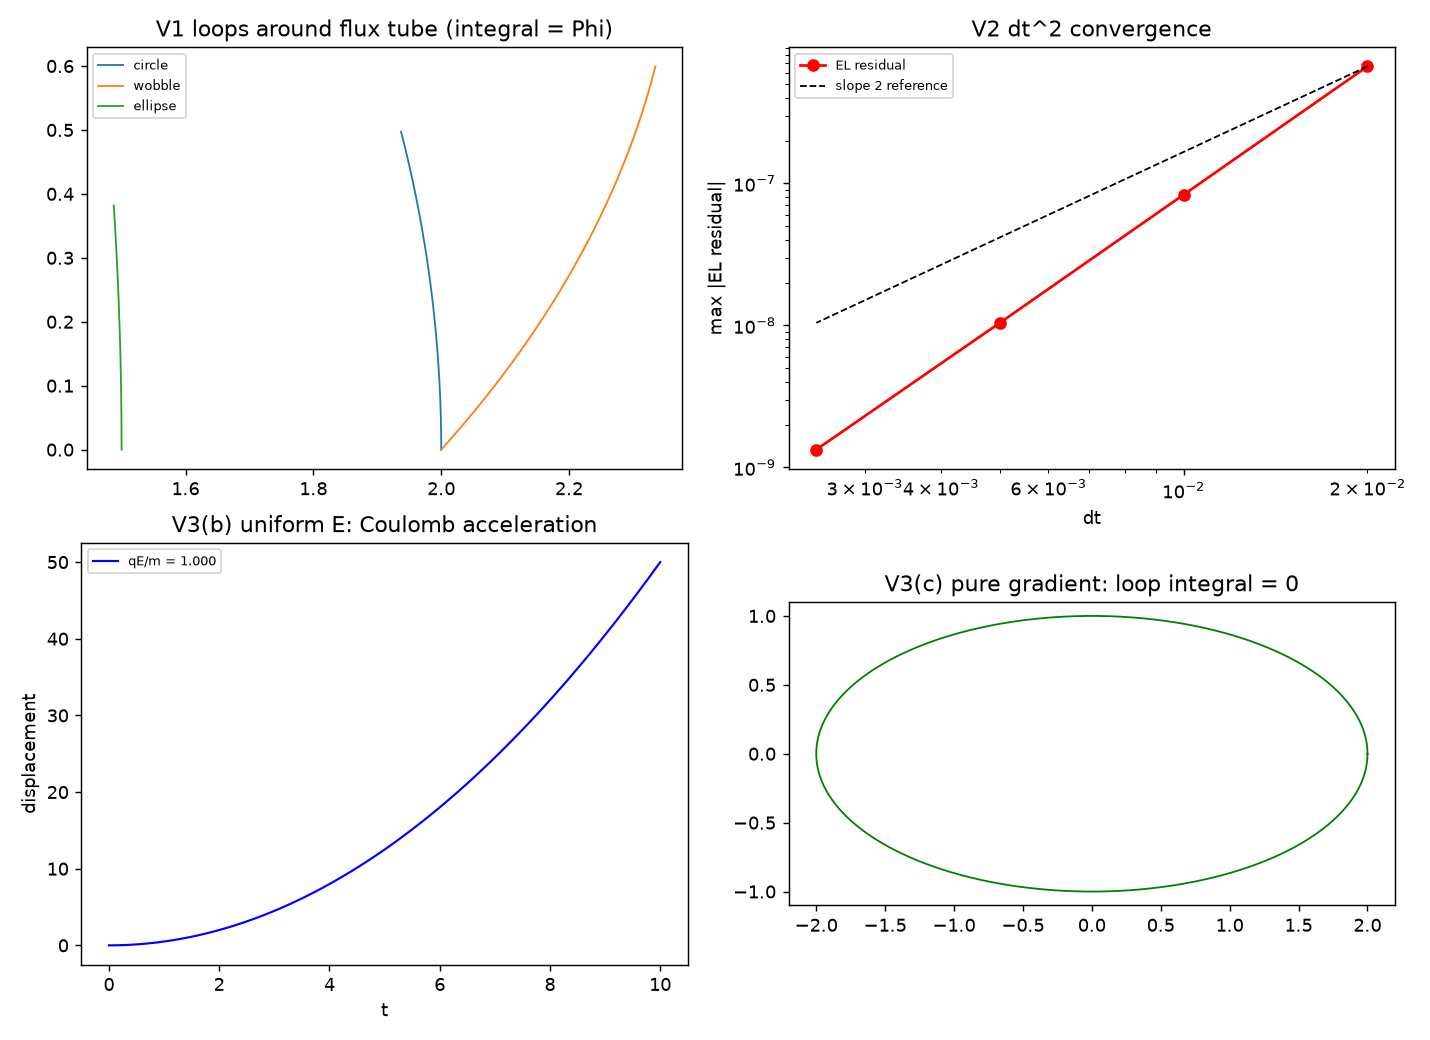
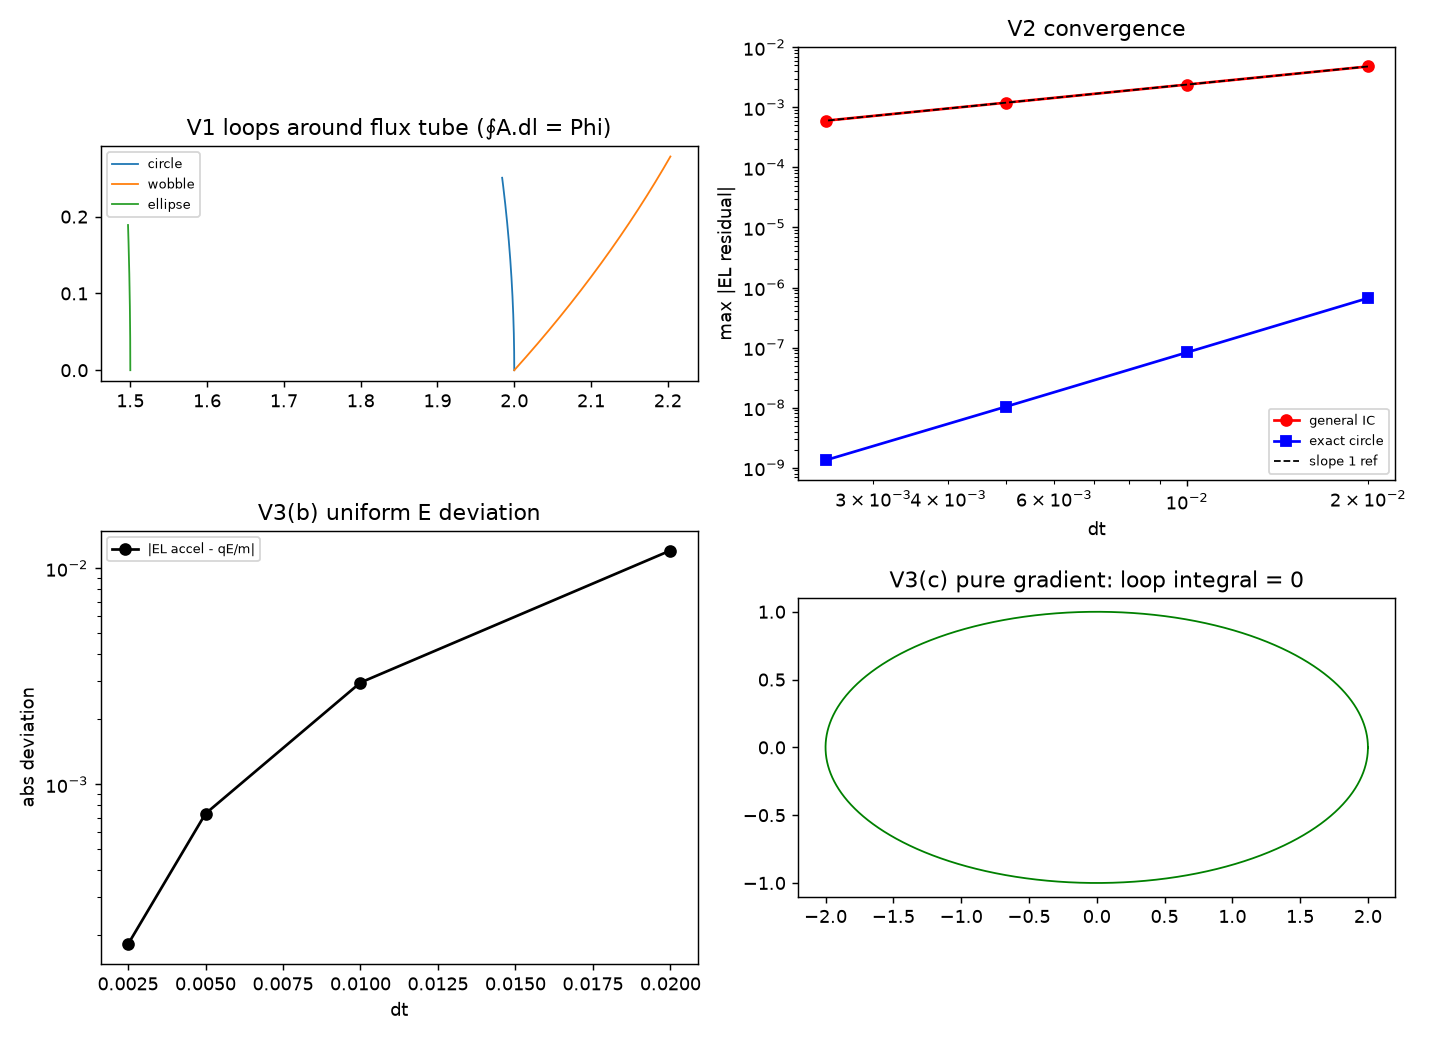
《电磁场总论》补入六张数据图
按作者指示补图以提升专业性。必须做三张：图 1 曲率定义三面板（闭合曲线族、累积相位重合成 2π、半径扫描恒为磁通 Phi=1，偏差 1.6e-08），图 3 色散与首阶洛伦兹破坏三面板（含 6:3:2 柱状核对），图 4 洛伦兹力四面板并按 2026-09-30 审查修订后的脚本重跑，旧图 V2 面板标「dt^2 convergence」已作废。应该做两张：图 2 位移电流变分四面板（取自第 447 条），图 5 磁铁机制与图 6 同斥异吸四面板（取自第 448、449 条）。新增生成脚本 _tools/make_em_figs.py 产出图 1 与图 3。每图配按面板核对的图注，数值均可在对应注记中溯源。

diff --git a/电磁场总论：元相子几何视角的完整图景.md b/电磁场总论：元相子几何视角的完整图景.md
@@ -5,6 +5,13 @@
 （天行新学研究院）
 
 - **修订记录**：
+  - **2026-09-30 补图**（触发：作者指示加入关键数据图提升专业性）
+    - 补第二章曲率定义图（三面板：闭合曲线族、累积相位重合成 2π、半径扫描恒为磁通 $\Phi=1$，最大偏差 $1.6\times10^{-8}$）
+    - 补 4.3 位移电流变分四面板图（取自第 447 条注记）
+    - 补 5.4 色散与首阶洛伦兹破坏三面板图，含 $6:3:2$ 方向比的柱状核对
+    - 补 8.2 洛伦兹力四面板图，并按 2026-09-30 审查修订后的脚本重跑，旧图 V2 面板标「dt^2 convergence」已作废
+    - 补 10.1 磁铁机制四面板图与 10.2 同斥异吸四面板图（取自第 448、449 条注记）
+    - 新增生成脚本 $_tools/make_em_figs.py$，图 A、图 B 由该脚本产出，图存 $images/$ 目录
   - **2026-09-30 审核修订**（触发：作者指示逐条审核，含 C 级）
     - A1 第 3.1 节推导重写：原从「静电场变化」出发，逻辑不成立；改从 dF = 0 展开，经混合偏导可交换与 F = dA 的分量定义推出法拉第定律，并补出可检验推论（磁单极点位处该定律失效）
     - A2 第 1.3 节修正归属：规范变换的自由度归实轴方向场，联络归基准取向场，补写混读两者会读出曲率恒为零的具体后果
@@ -96,6 +103,8 @@ $$
 B_a = \frac{1}{2}\epsilon_{abc}F_{bc}$$
 
 这个拆分的物理意义在第八章展开：电场与磁场是同一个联络曲率在时间方向与空间方向的两个投影，正因为是同一对象的两个投影，它们才必须满足相容条件，那条件就是法拉第定律。
+
+![图 1：联络绕格面一圈的净扭转即场强。三面板：左为三条形状不同的闭合曲线（半径 2 的圆、三角调制曲线、椭圆）同绕一根磁通管；中为沿各曲线累积的相位角，三条曲线在终点重合成 $2\pi$，说明总扭转与路径形状无关；右为闭合曲线半径从 0.5 扫到 4.0，圈积分恒为磁通 $\Phi = 1$，最大偏差 $1.6\times10^{-8}$。](images/em_curvature_def.png)
 
 ### 2.2 曲率的闭合约束
 
@@ -199,6 +208,8 @@ S = \frac{\kappa}{4}\int F_{\mu\nu}F^{\mu\nu}\,\mathrm{d}^4x$$
 
 于是位移电流的身份清楚了：它并非与传导电流并列的另一种电流，它是联络在时间方向的曲率与空间曲率必须相容的产物。传导电流的图像同样清楚，它是绕数结构的迁移，绕数从一个格点走到另一个格点，带着自己的缠绕数一起走。
 
+![图 2：位移电流的变分来源与环量判据四面板。左上：规范块作用量对联络变分所得的场分布。(右上：变分结果与解析式之差，量级为舍入地板 $10^{-10}$。)左下：均匀电场下的电场与磁场剖面，两者相位相差四分之一周期。右下：位移电流项与磁场旋度项随时间的两条曲线重合成一条，相对残差 $2.9\times10^{-14}$，说明无传导电流时磁场的源只能是位移电流。](images/jz1_displacement_current.png)
+
 **严格程度**：作用量的唯一性论证与变分核对为严格层，判据经四轮数值验证全过。传导电流的动态过程（运动绕数结构产生空间涡旋）尚未完整建立，属开放项。
 
 ## 五、波动、光速与正交
@@ -243,6 +254,8 @@ $$
 $$
 
 该修正有两个特征：方向依赖比精确为 $6:3:2$，标度为 $(E/E_P^{(t)})^2$。两者都是标准电磁学不预言的，构成洛伦兹破坏型实验搜索的靶子。量级上，一电子伏特光子的相对偏离约 $3\times10^{-58}$，与已抄录的实验上界差数十个数量级，因此该预言目前不可验证，只能作为体系的正确性判据保留。
+
+![图 3：低能光速涌现与首阶洛伦兹破坏的方向依赖。左面板为沿 100 方向的晶格色散与低能直线，两者在 $k l_P \lesssim 1$ 段重合；中面板为首阶相对偏离随 $l_P k = E/E_P^{(t)}$ 的增长，三个方向按平方标度展开；右面板为三方向系数之比，柱高为 1、$1/2$、$1/3$，对应系数 $-1/24$、$-1/48$、$-1/72$。](images/em_dispersion_lv.png)
 ## 六、静电与动电的统一
 
 静电学与电动力学在传统物理中是两套理论，一套讲库仑定律与电势，一套讲矢势与电磁波。体系内它们由同一个量统一：时间分量的联络。
@@ -303,6 +316,8 @@ m\ddot x_\nu = 2\pi w\, F_{\mu\nu}\dot x^\mu$$
 
 磁力恒垂直于速度，这一性质由 $\mathbf{F} = q\mathbf{v}\times\mathbf{B}$ 的结构直接给出：叉积永远垂直。静止电荷不受磁力，因为 $\mathbf{v} = 0$。这两条都是几何结论，不含经验输入。
 
+![图 4：洛伦兹力判据四面板。左上：三条闭合曲线环绕磁通管，圈积分同为磁通。(右上：离散欧拉-拉格朗日残差随步长的双对数收敛，红点为一般初值、斜率 1，蓝点为精确圆轨道、斜率约 3 的超收敛。)左下：纯电场下位移随时间的平方增长，斜率给出 $qE/m$。右下：纯梯度势的闭合回路，圈积分为零。](images/jz1_lorentz_force.png)
+
 **严格程度**：绕数扮演荷与最小耦合变分为严格层；把缺陷当质点处理的有效作用量写法为条件性，缺陷有限宽度带来的修正属开放项，已转交粒子线处理。
 
 ## 九、为什么不存在磁单极：一个需要交代的前提
@@ -350,6 +365,8 @@ $$
 
 **严格程度**：映射形式 $A_a l_P = \kappa\hat{\mathbf s}\cdot\hat a$ 是提案，尚未经作者裁决；由它导出的三条结构性后果为判据级，其中均匀区无源与散度为零属离散恒等式，畴壁有源属定位性结论。
 
+![图 5：磁铁机制判据四面板。左上：畴壁中的磁场强度分布，场集中在自旋方向变化的薄层内。(右上：自旋剖面，两侧严格均匀。)左下：全局格点上的磁场强度散布，对数轴上绝大部分站点贴零线，仅畴壁层非零。右下：随机自旋配置下的磁场散度，对数轴上全部贴机器零。](images/jz1_magnet_bridge.png)
+
 ### 10.2 同斥异吸的定量
 
 知道磁场由自旋旋度给出之后，可以计算两块磁体之间的相互作用。计算需要先定一个符号约定，这一点值得单独交代，因为它决定了「斥」与「吸」的判断方向。
@@ -368,6 +385,8 @@ $$
 | 并列，磁化反向 | 正，$+37.6$ 至 $+14.7$ | 吸引 |
 
 四种位形的符号与日常经验一致：同极相斥、异极相吸，无论两极相对还是并排放置。远场极限给出偶极标定，数值斜率与点偶极解析式的偏差在百分之零点二与百分之零点七之间。
+
+![图 6：同斥异吸的相互作用能四面板。左上为共轴位形两极相对，异极相对时相互作用能为正、吸引，同极相对时为负、排斥，开边界解与周期盒解同号；右上为并列位形磁化轴垂直于分离方向，磁化同向为负、排斥，反向为正、吸引；左下为远场偶极标定的双对数图，两方向斜率与点偶极解析式并列；右下为两套求解之差等于周期像贡献，说明物理判据须建立在开边界解上。](images/jz1_magnet_interaction.png)
 
 **口径提醒**：相互作用能的符号判断依赖上述力与能的约定。单看隙中的磁场强度或单看 $\frac{1}{2}\int\mathbf B^2$ 这两项都不足以定符号，必须取总作用量（规范动能项与物质场耦合项之和）的组合。周期盒解与开边界解的数值差可达单计像和的一点七五至二点零七倍，物理判据一律建立在开边界解上。
 
